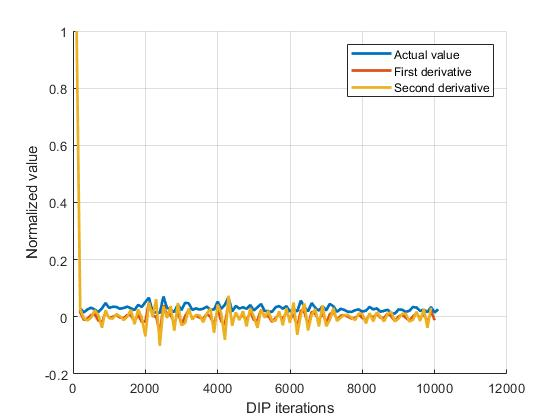
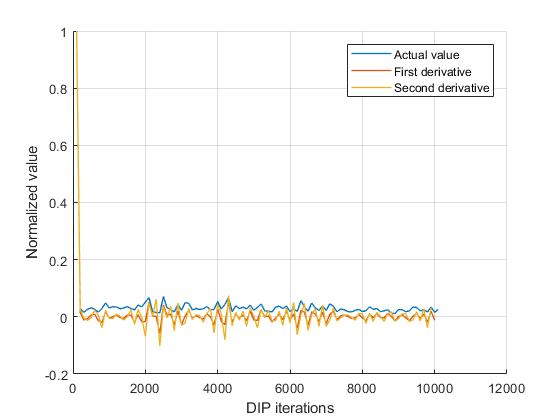
grad tests

Changed region(s): [[0.1214, 0.0619, 0.7893, 0.8357], [0.6375, 0.1238, 0.6982, 0.2167]]

diff --git a/saliency_tests.py b/saliency_tests.py
@@ -15,9 +15,9 @@ import matplotlib.pyplot as plt
 image_dataset = [1]
 for i in range(len(image_dataset)):
     image = image_dataset[i]
-    adv, orig, pert = adversarial_examples("data/zebra_GT.png", method = "LLCI",eps=100, show=False)
+    adv, orig, pert = adversarial_examples("data/knife.jpg", method = "LLCI",eps=100, show=False)
     #orig = cv2.imread('data/knife.jpg')[..., ::-1]
-    plt.imsave("results/Adv_DIP/Multiple_images/zebra_GT/adv_zebra.png", adv, format="png")
+    plt.imsave("results/Adv_DIP/Multiple_images/knife/adv_knife.png", adv, format="png")
 
     _, ranks =classification(orig, model_name='resnet18', sort=True, show=False)
     class_index = ranks[0, 0]
@@ -25,7 +25,7 @@ for i in range(len(image_dataset)):
     #generate_saliency_maps('results/Adv_DIP/Multiple_images/knife', image, model_type='resnet18', cuda=True,
     #                       top_percentile=99, bottom_percentile=0, mask_mode=True, target_label_index=class_index)
 
-    generate_saliency_maps('results/Adv_DIP/Multiple_images/zebra_GT', "adv_zebra.png", model_type='resnet18', cuda=True,
+    generate_saliency_maps('results/Adv_DIP/Multiple_images/knife', "adv_knife.png", model_type='resnet18', cuda=True,
                           top_percentile=99, bottom_percentile=0, mask_mode=True, target_label_index=class_index)
     print('\n')
 

diff --git a/results/Adv_DIP/Multiple_images/PLotting_gradient_convergence.m b/results/Adv_DIP/Multiple_images/PLotting_gradient_convergence.m
@@ -28,19 +28,19 @@ xlabel('DIP iterations')
 ylabel("Absolute mean gradient")
 figure
 hold on
-plot(100:100:size(Grads,1)*100, Average/Average(1), 'LineWidth',2)
+plot(100:100:size(Grads,1)*100, Average/Average(1), 'LineWidth',1)
 grid on
 xlabel('DIP iterations')
 % ylabel("Averaged absolute mean gradient")
 % figure
 x = diff(Average/100);
-plot(100:100:(size(Grads,1)-1)*100, x./x(1), 'LineWidth',2)
+plot(100:100:(size(Grads,1)-1)*100, x./x(1), 'LineWidth',1)
 grid on
 xlabel('DIP iterations')
 % ylabel("First Derivative of mean gradient")
 % figure
 y = diff(x)/100;
-plot(100:100:(size(Grads,1)-2)*100, y./y(1), 'LineWidth',2)
+plot(100:100:(size(Grads,1)-2)*100, y./y(1), 'LineWidth',1)
 grid on
 xlabel('DIP iterations')
 % ylabel("Second Derivative of mean gradient")
